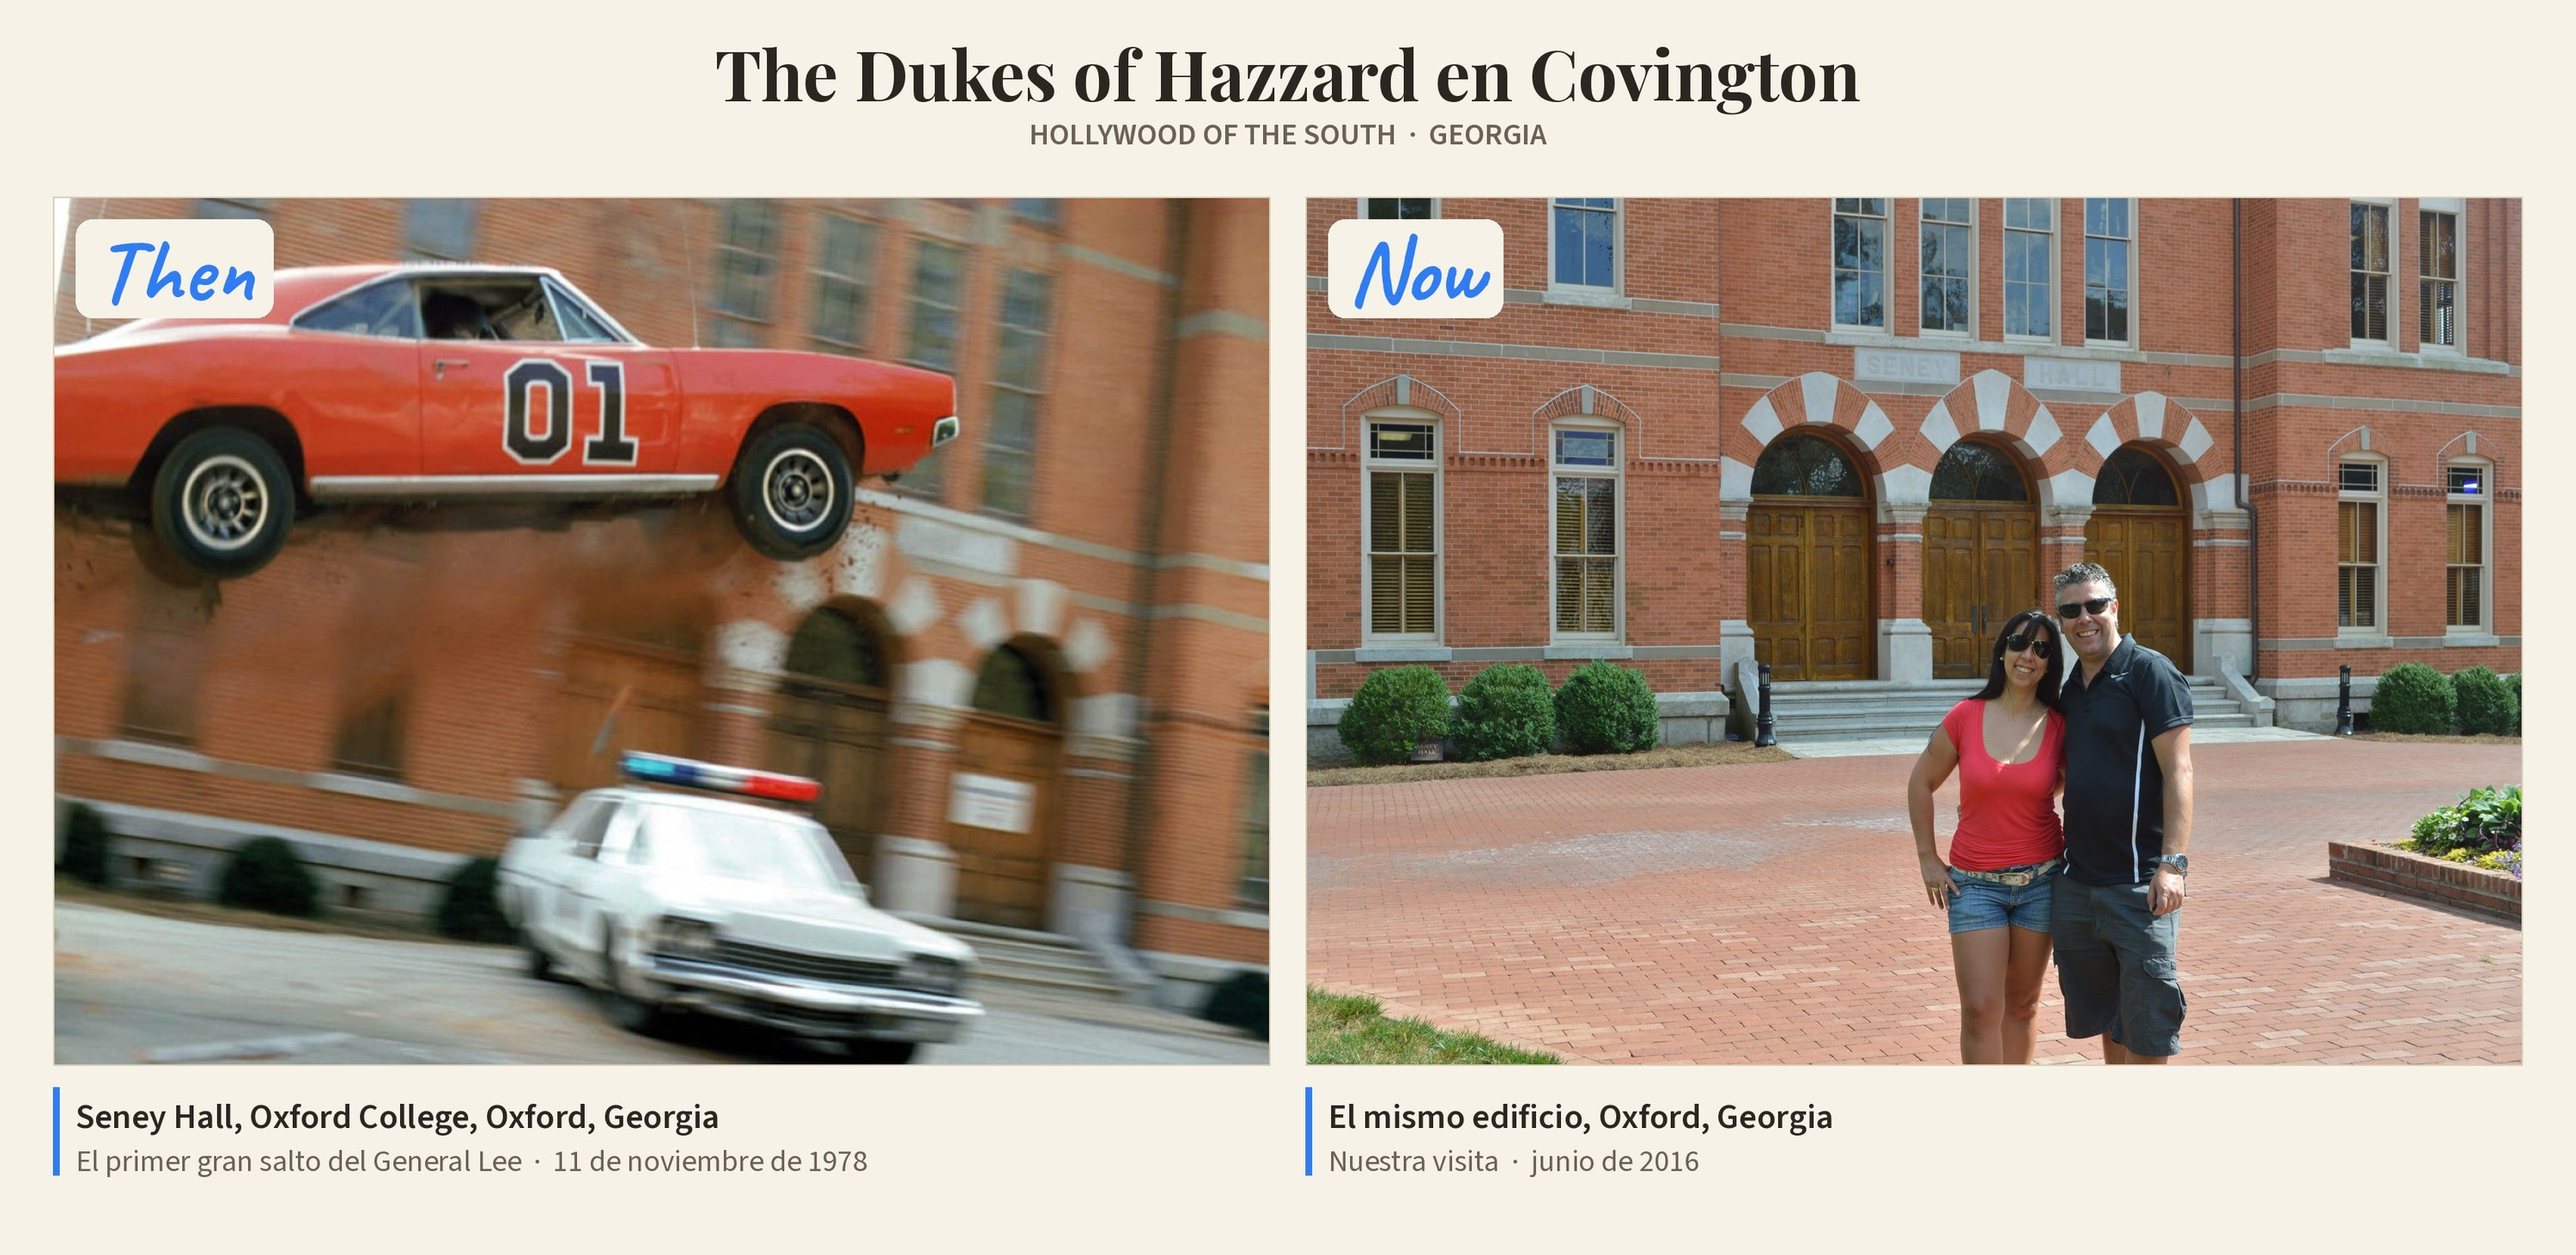
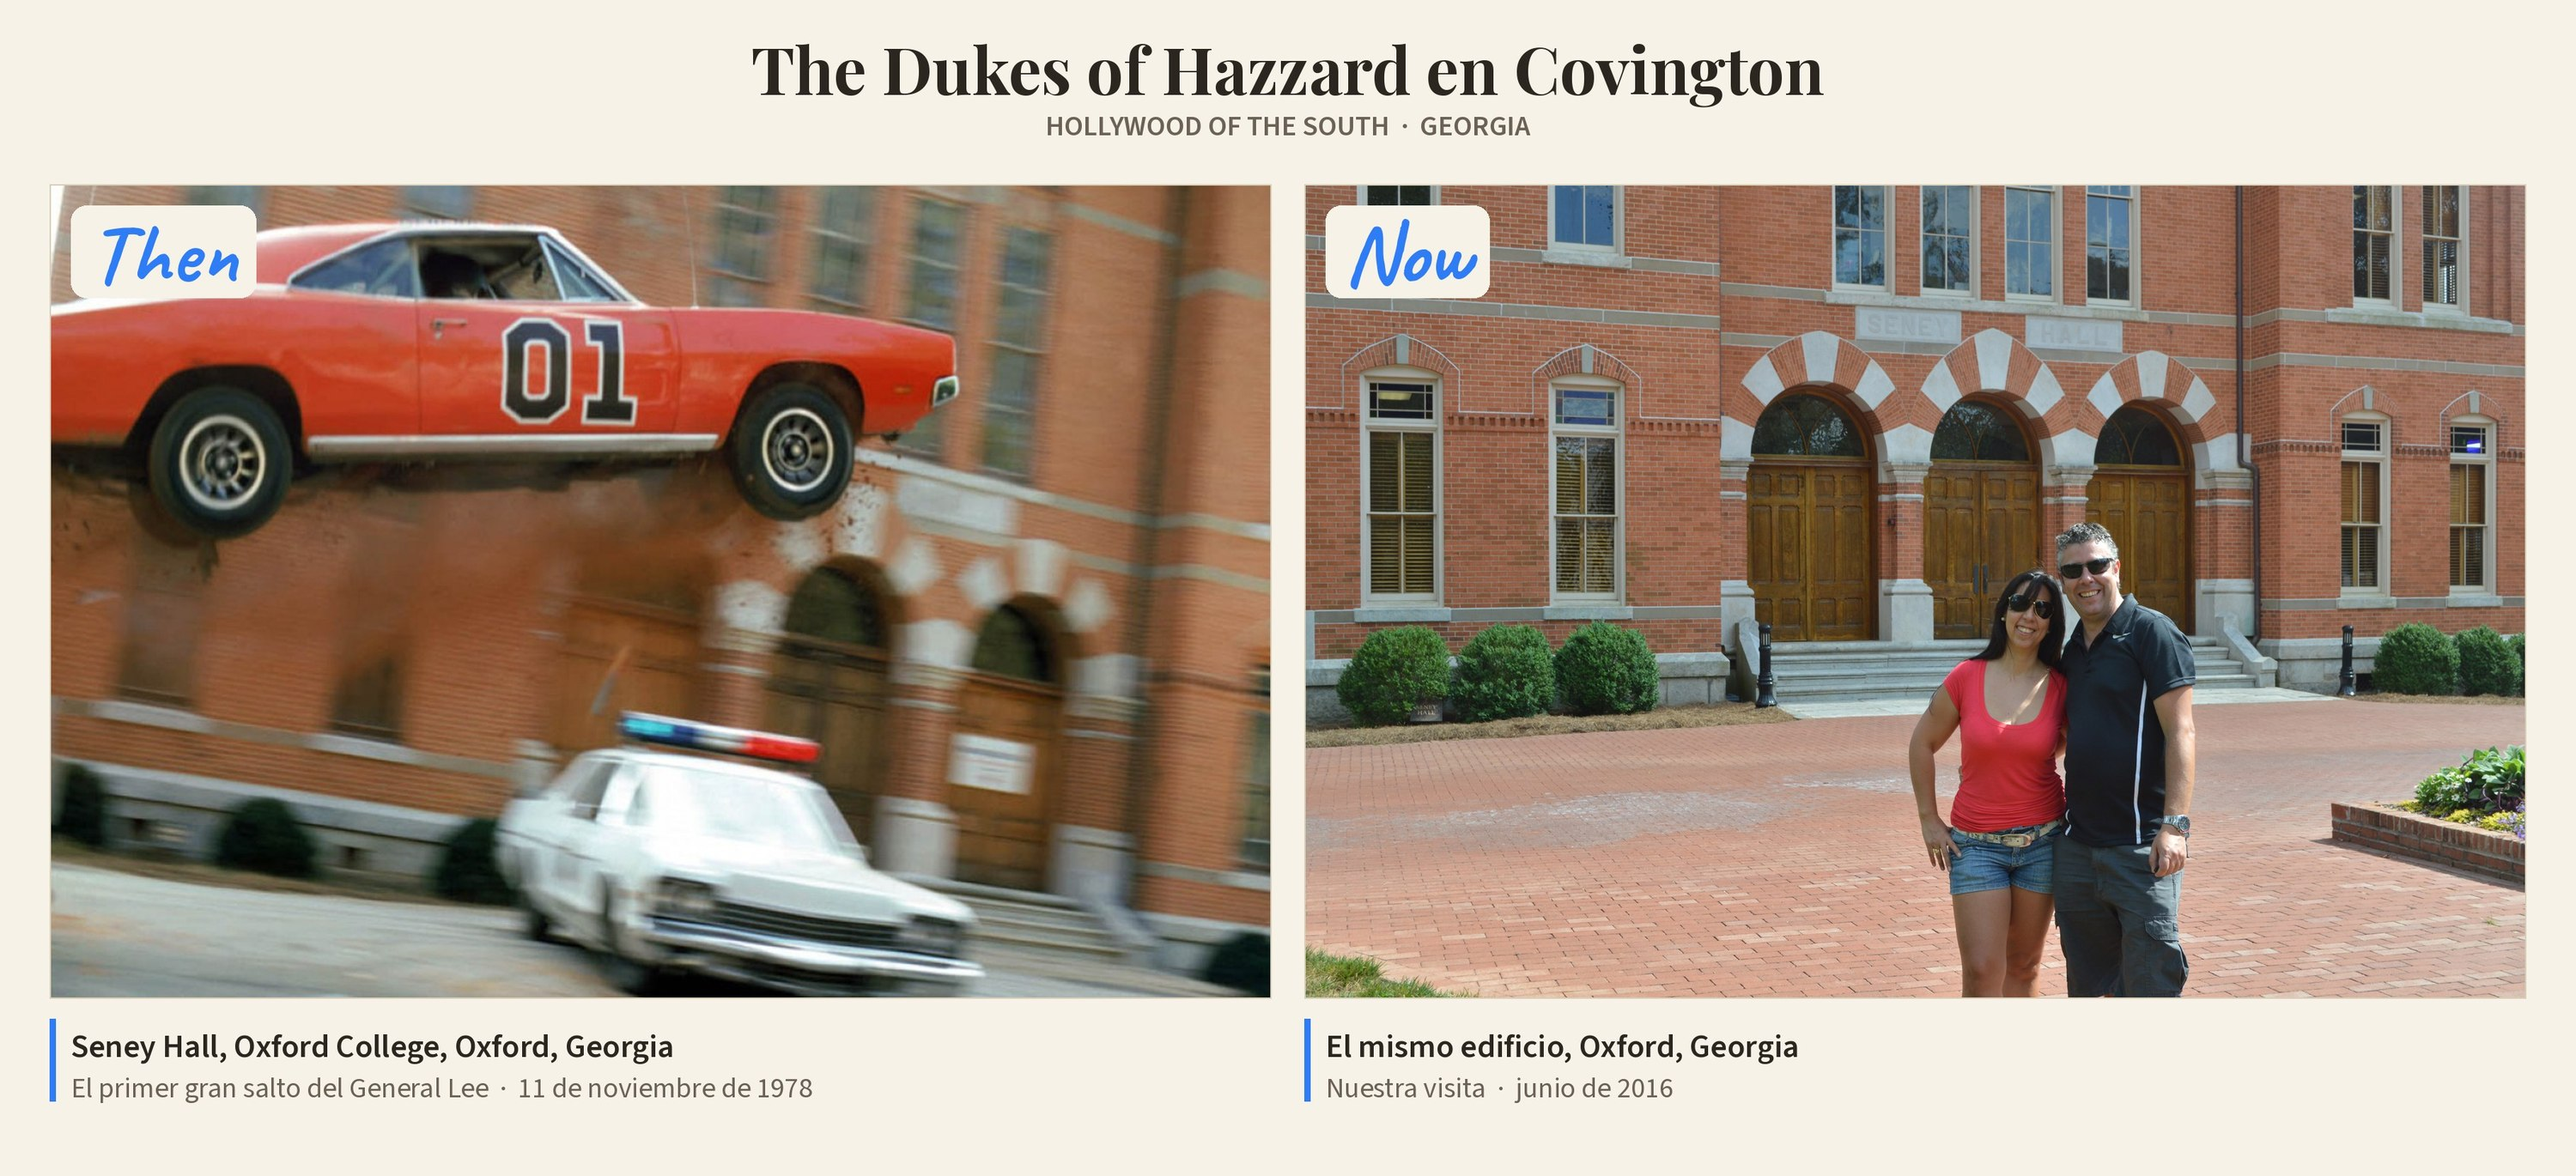
Hollywood of the South: Then/Now 12 (entrada al Boar's Nest) y proporciones parejas en todas las imagenes
Claude-Session: https://claude.ai/code/session_0197mgRJ3F2zdsUp3eosRKyF

Changed region(s): [[0.0, 0.1533, 0.992, 0.9504], [0.279, 0.0307, 0.713, 0.1226]]

diff --git a/trip2/25fr6s4w/index.html b/trip2/25fr6s4w/index.html
@@ -97,7 +97,7 @@
         <button class="carousel-btn" id="nextBtn" aria-label="Foto siguiente">&#8250;</button>
       </div>
       <button class="zoom-btn" id="zoomBtn" aria-label="Ampliar foto">&#128269;</button>
-      <div class="carousel-count" id="count">1 / 11</div>
+      <div class="carousel-count" id="count">1 / 12</div>
     </div>
     <p class="photo-caption" id="caption"></p>
     </div>
@@ -130,10 +130,10 @@
   },
   {
     "src": "02.jpg",
-    "ratio": 1.6104,
+    "ratio": 1.5656,
     "caption": "Then / Now: el salto acrobático real del General Lee en Elm Street, Covington, Georgia, filmado en octubre de 1978 para el primer episodio de la serie, \"One Armed Bandits\", que se emitió en enero de 1979. Junto a ella, la misma calle en nuestra visita de junio de 2016.",
     "srcWide": "02w.jpg",
-    "ratioWide": 0.4567
+    "ratioWide": 0.4427
   },
   {
     "src": "03.jpg",
@@ -144,17 +144,17 @@
   },
   {
     "src": "04.jpg",
-    "ratio": 1.687,
+    "ratio": 1.6021,
     "caption": "Then / Now: esta emblemática locación es el orfanato ficticio \"Sheridan Orphans Home\" (también conocido como el orfanato del condado de Hazzard), que aparece de forma destacada en el episodio piloto, \"One Armed Bandits\", estrenado en enero de 1979. En la vida real es la Casa Zachary-Echols, una residencia de estilo antebellum construida alrededor de 1854. Junto a ella, la misma casa en nuestra visita de junio de 2016.",
     "srcWide": "04w.jpg",
-    "ratioWide": 0.4833
+    "ratioWide": 0.456
   },
   {
     "src": "05.jpg",
-    "ratio": 1.7589,
+    "ratio": 1.6026,
     "caption": "Then / Now: fotograma del episodio 4 de la primera temporada, \"Repo Men\", emitido en febrero de 1979. Los personajes principales bajan por las escaleras del juzgado del condado: la escena se filmó en los escalones del auténtico palacio de justicia del condado de Newton, en Covington, una de las locaciones de los primeros episodios antes de que el rodaje se trasladara a California. Junto a ella, las mismas escaleras en nuestra visita de junio de 2016.",
     "srcWide": "05w.jpg",
-    "ratioWide": 0.5843
+    "ratioWide": 0.5417
   },
   {
     "src": "06.jpg",
@@ -179,10 +179,10 @@
   },
   {
     "src": "09.jpg",
-    "ratio": 1.6938,
+    "ratio": 1.6042,
     "caption": "Then / Now: esta icónica imagen captura el primer gran salto del General Lee en la historia de la televisión. La acrobacia se filmó el 11 de noviembre de 1978 en el campus del Oxford College (Universidad de Emory), en Oxford, Georgia: el auto vuela 16 pies de alto (4,8 metros) y 82 pies de largo (25 metros) por encima de una patrulla, frente al histórico Seney Hall. Esas imágenes se convirtieron al instante en un emblema de la cultura pop y cerraron los créditos de apertura de cada episodio durante las 7 temporadas de la serie. Por el brutal impacto contra el suelo, el auto original quedó completamente destruido. Junto a ella, el Seney Hall en nuestra visita de junio de 2016.",
     "srcWide": "09w.jpg",
-    "ratioWide": 0.4873
+    "ratioWide": 0.4567
   },
   {
     "src": "10.jpg",
@@ -197,6 +197,13 @@
     "caption": "Then / Now: otra toma de The Boar's Nest (El Nido del Jabalí), con la patrulla del sheriff frente a la entrada. El edificio real, usado para los exteriores de los primeros cinco episodios de la primera temporada (emitidos en 1979), está en Oxford, Georgia, y hoy funciona como la iglesia New Vision Christian. Junto a ella, la misma entrada en nuestra visita de junio de 2016: todavía se reconoce el pequeño pórtico con techo a dos aguas sobre la puerta.",
     "srcWide": "11w.jpg",
     "ratioWide": 0.4383
+  },
+  {
+    "src": "12.jpg",
+    "ratio": 1.5594,
+    "caption": "Then / Now: el camino de entrada al edificio que dio vida al Boar's Nest original, la taberna de Boss Hogg, en el 290 de Flat Rock Road, entre Oxford y Covington, Georgia. En la toma, el General Lee sube por la entrada de tierra. Junto a ella, la misma entrada en nuestra visita de junio de 2016, hoy con una tranquera de hierro.",
+    "srcWide": "12w.jpg",
+    "ratioWide": 0.4407
   }
 ];
   const track = document.getElementById('track');
@@ -220,7 +227,7 @@
     const ratio = RATIO(PHOTOS[idx]);
     const w = carousel.clientWidth;
     let h = w * ratio;
-    h = Math.max(280, Math.min(h, window.innerHeight * 0.72));
+    h = Math.max(280, Math.min(h, window.innerHeight * 0.86));
     track.style.height = h + 'px';
   }
   function go(n){
